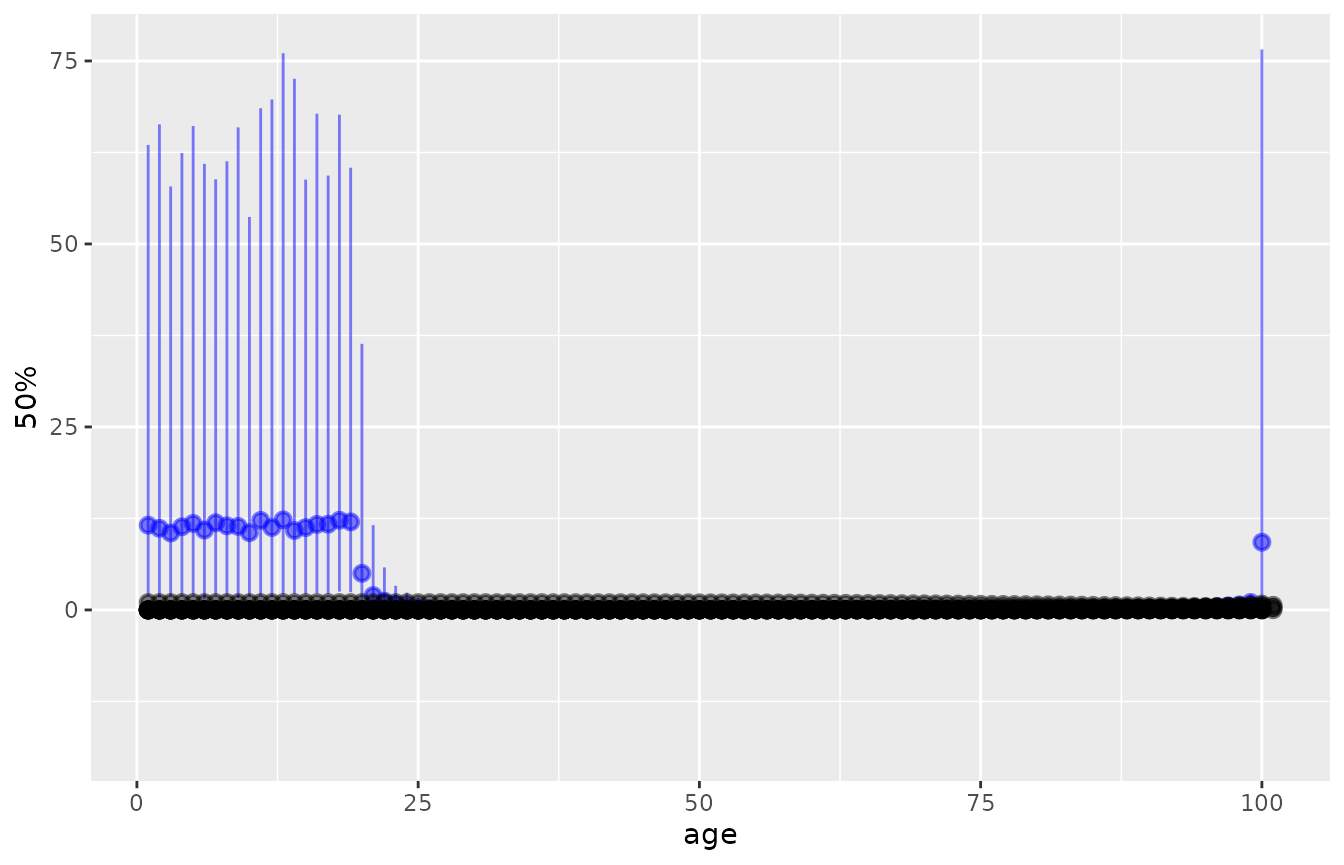
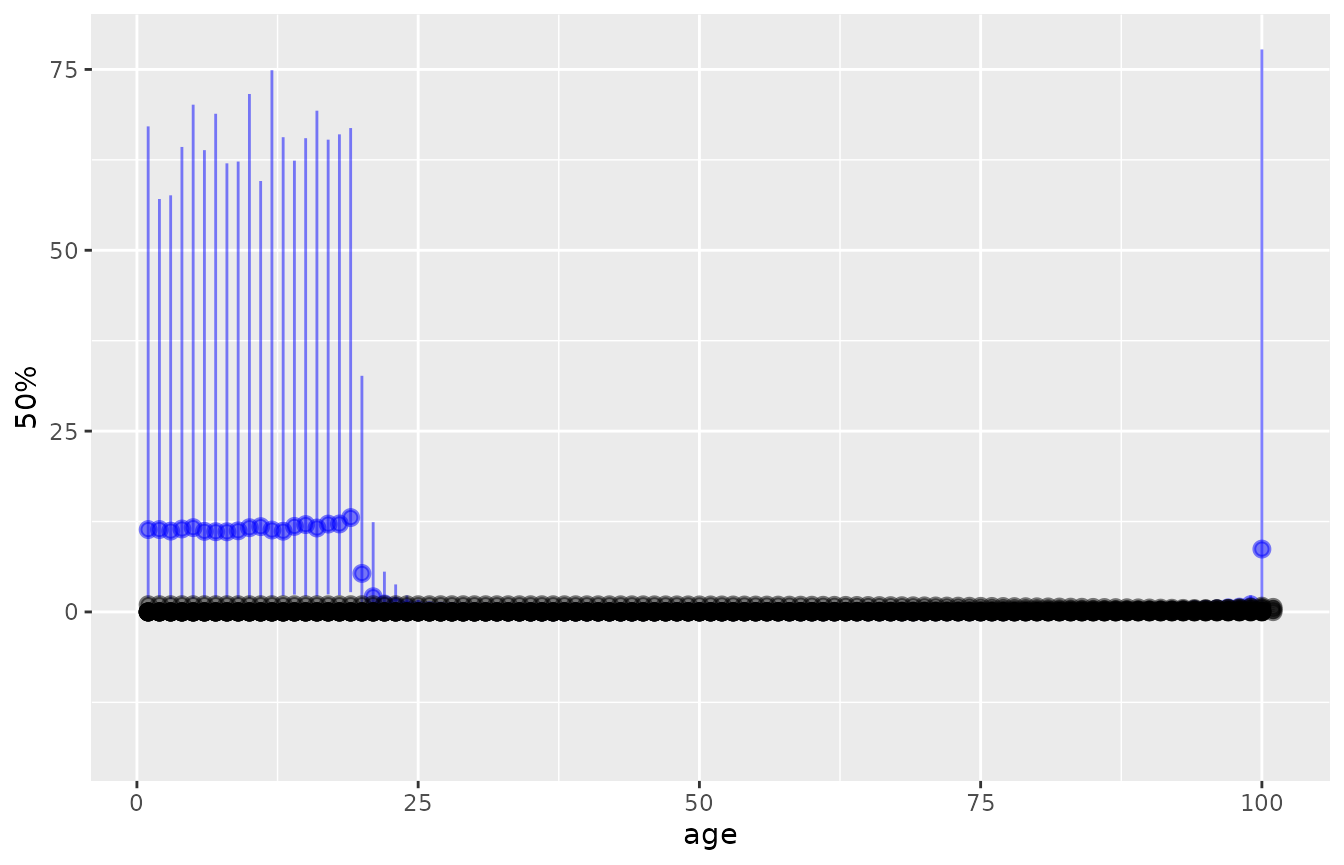
Built site for disbayes: 0.1@9e6d5db

diff --git a/articles/disbayes.html b/articles/disbayes.html
@@ -325,12 +325,12 @@
   <span class="fu"><a href="https://dplyr.tidyverse.org/reference/filter.html">filter</a></span><span class="op">(</span><span class="va">var</span><span class="op">==</span><span class="st">"cf"</span>, <span class="fu"><a href="https://dplyr.tidyverse.org/reference/between.html">between</a></span><span class="op">(</span><span class="va">age</span>,<span class="fl">60</span>,<span class="fl">65</span><span class="op">)</span><span class="op">)</span> <span class="op">%&gt;%</span>
   <span class="fu"><a href="https://dplyr.tidyverse.org/reference/select.html">select</a></span><span class="op">(</span><span class="va">age</span>, <span class="va">`25%`</span>, <span class="va">`50%`</span>, <span class="va">`75%`</span><span class="op">)</span></code></pre></div>
 <pre><code>##   age        25%        50%        75%
-## 1  60 0.01537974 0.01653076 0.01765274
-## 2  61 0.01560539 0.01676720 0.01781738
-## 3  62 0.01586882 0.01697884 0.01804664
-## 4  63 0.01615309 0.01721127 0.01826454
-## 5  64 0.01641191 0.01747123 0.01853106
-## 6  65 0.01670051 0.01771984 0.01881353</code></pre>
+## 1  60 0.01555389 0.01663131 0.01789003
+## 2  61 0.01576040 0.01685745 0.01809237
+## 3  62 0.01598968 0.01707046 0.01826739
+## 4  63 0.01624126 0.01733395 0.01845578
+## 5  64 0.01650083 0.01754568 0.01867857
+## 6  65 0.01684653 0.01782361 0.01897024</code></pre>
 <p>The default <code>plot</code> method for objects returned by <code>disbayes</code> plots the posterior summaries for case fatality, allowing a quick check of the model results. Or do <code><a href="https://rdrr.io/r/graphics/plot.default.html">plot(..., variable="inc")</a></code> for incidence. The function returns a <code>ggplot2</code> object that can be modified with <code>ggplot2</code> functions, e.g. to add axis labels.</p>
 <div class="sourceCode" id="cb17"><pre class="downlit sourceCode r">
 <code class="sourceCode R"><span class="kw"><a href="https://rdrr.io/r/base/library.html">library</a></span><span class="op">(</span><span class="va"><a href="https://ggplot2.tidyverse.org">ggplot2</a></span><span class="op">)</span>
